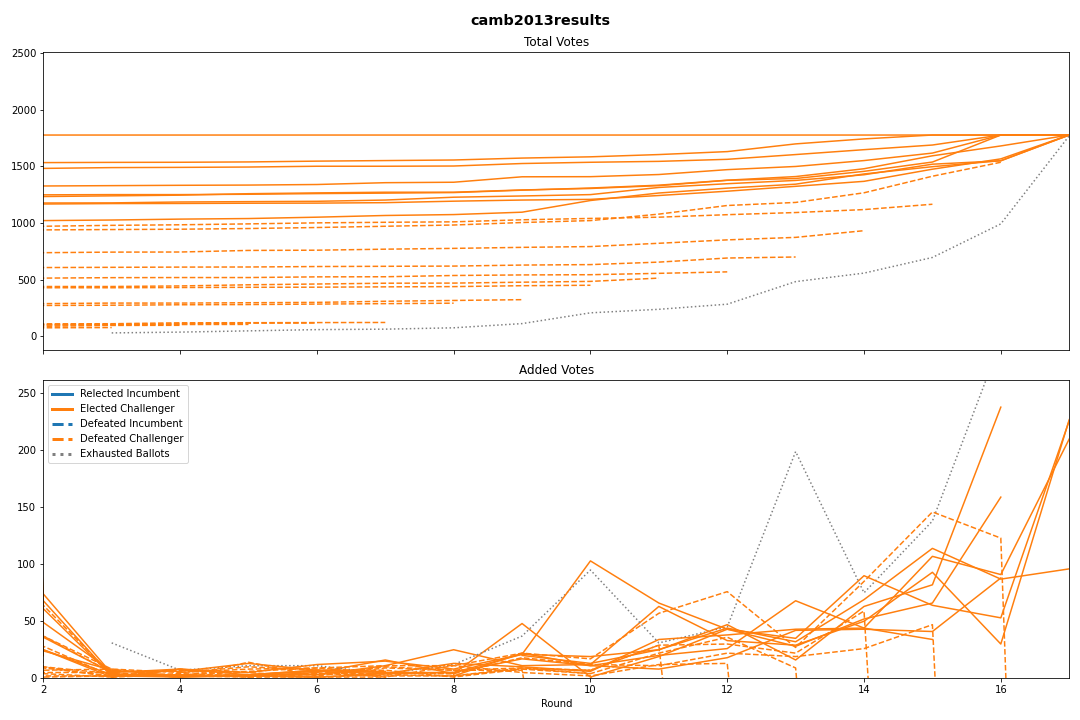
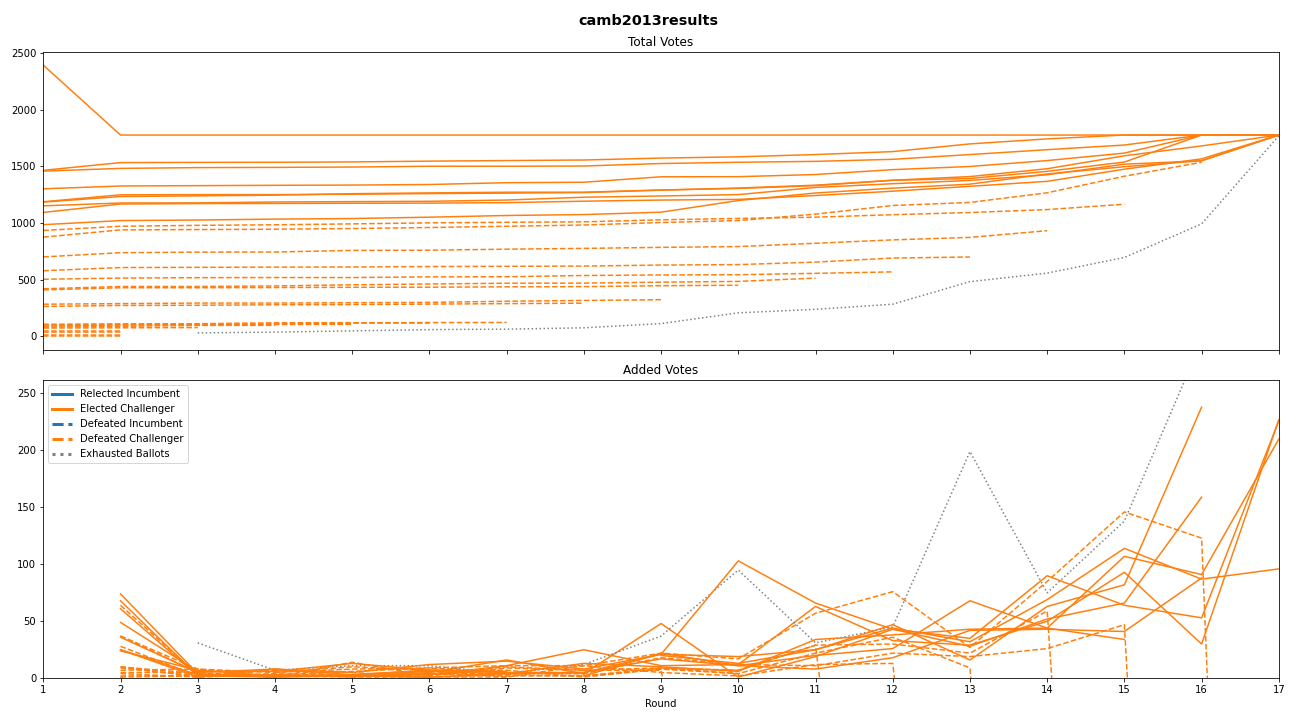
improved ggraphs

diff --git a/cambridge.py b/cambridge.py
@@ -37,7 +37,7 @@ def combine_results(folder):
 
 def plot_single_election(df, elected, incumbent, title):
     dfGroup = df.groupby('CANDIDATE ')
-    fig, ax = plt.subplots(2, 1, figsize=(15, 10), sharex=True)
+    fig, ax = plt.subplots(2, 1, figsize=(18, 10), sharex=True)
 
     electLine = 'solid'
     defeatLine = 'dashed'
@@ -63,7 +63,9 @@ def plot_single_election(df, elected, incumbent, title):
 
         ax[0].plot(grp['Round'], grp['TOTAL '],
                    label=key, linestyle=linestyle, color=color)
-        ax[1].plot(grp['Round'], grp['THIS ROUND '],
+
+        grp2 = grp.loc[grp['Round'] > 1]
+        ax[1].plot(grp2['Round'], grp2['THIS ROUND '],
                    label=key, linestyle=linestyle, color=color)
 
     ax[0].set_title('Total Votes')
@@ -80,7 +82,9 @@ def plot_single_election(df, elected, incumbent, title):
 
     ax[1].set_ylim([changeMin, changeMax])
     # ax[1].set_ylim(bottom=0)
-    ax[1].set_xlim([2, max(df['Round'])])
+    xMax = max(df['Round'])
+    ax[1].set_xlim([1, xMax])
+    ax[1].xaxis.set_ticks(np.arange(1, xMax + 1, 1))
 
     custom_lines = [Line2D([0], [0], color=incumbentColor, linestyle=electLine, lw=3),
                     Line2D([0], [0], color=challengeColor,
